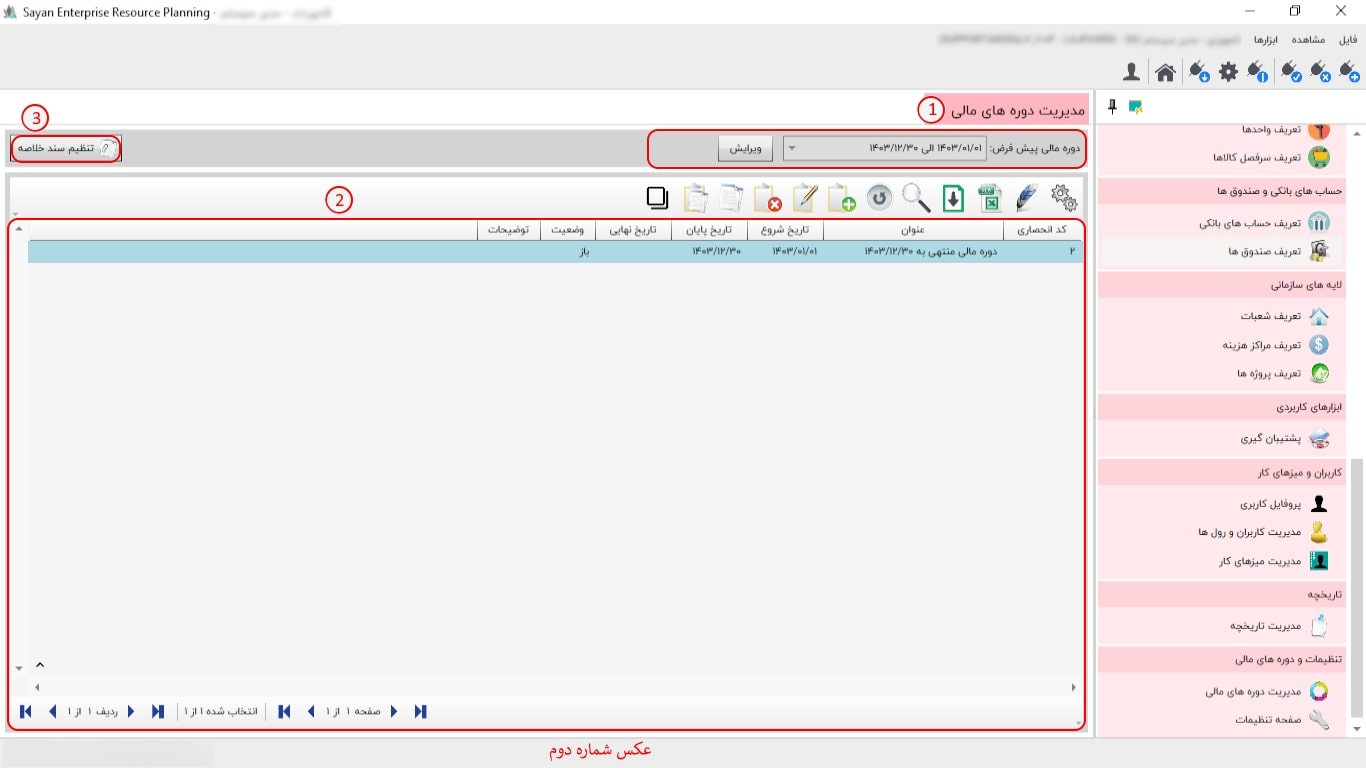
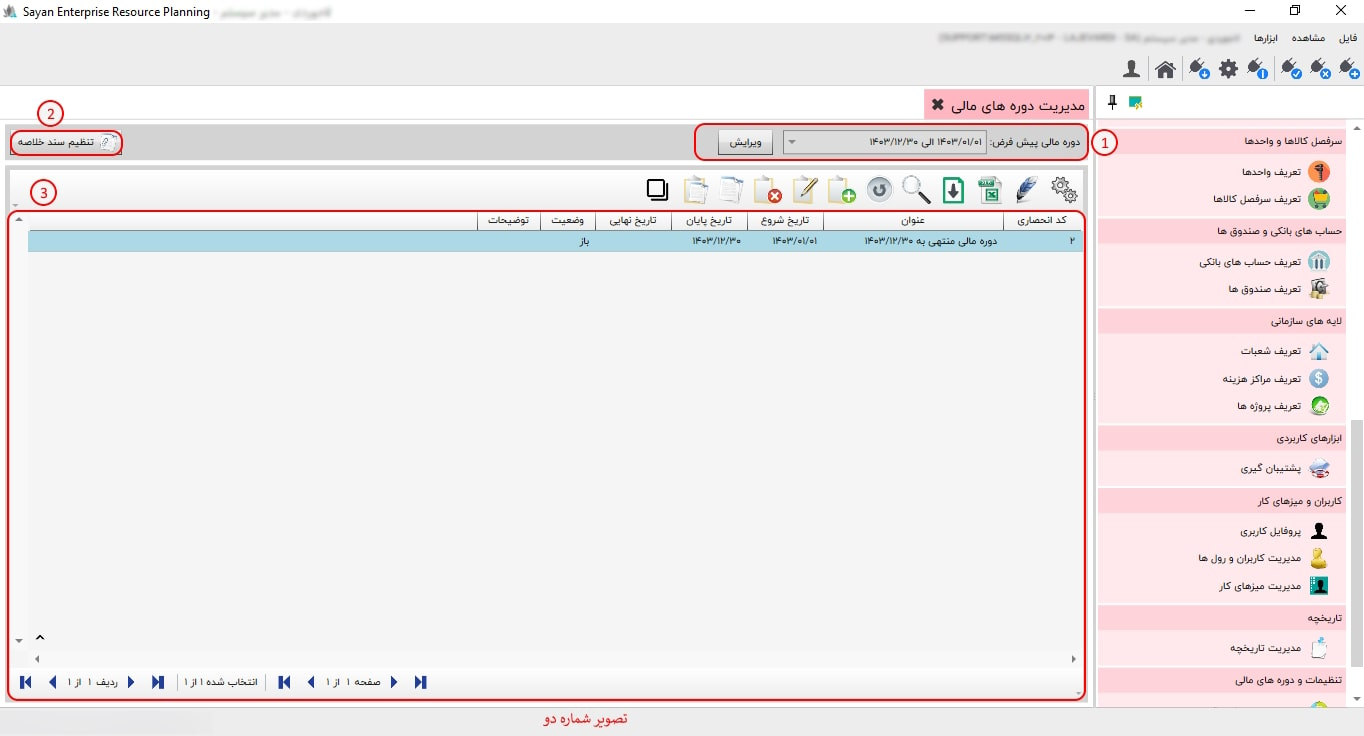
تغییر در عکس

diff --git a/Help/fa-IR/_18_اطلاعات پایه و مشترک/_19_مدیریت دوره های مالی/Index.html b/Help/fa-IR/_18_اطلاعات پایه و مشترک/_19_مدیریت دوره های مالی/Index.html
@@ -18,39 +18,39 @@
 	</p>
 	<img class="FitPic" src="l1.jpg" />
 	<p>
-		برای ادامه مطلب به عکس شماره دوم مراجعه نمایید.
+		برای ادامه مطلب به تصویر شماره دو مراجعه نمایید.
 	</p>
 	<img class="FitPic" src="l2.jpg" />
 	<p>
 		-دوره مالی پیش فرض (کادر شماره یک) :      
 	</p>	 
 	<p>       
-		-کادر شماره دوم:   
+		-کادر شماره دو:   
 	</p>	   
 	<p> 
-		-تنظیم سند خلاصه(کادر شماره سوم):
+		-تنظیم سند خلاصه(کادر شماره سه):
 	</p>
 	<p>    
-		برای ادامه مطلب به عکس شماره سوم مراجعه نمایید.   
+		برای ادامه مطلب به تصویر شماره سه مراجعه نمایید.   
 	</p>
 	<img class="FitPic" src="l3.jpg" />
 	<p>
 	-تنظیم اتوماتیک (کادر شماره یک):
 	</p>
 	<p>
-		-برگشت از تایید(کادر شماره دوم):
+		-برگشت از تایید(کادر شماره دو):
 	</p>
 	<p>
-		-از تاریخ (کادر شماره سوم):
+		-از تاریخ (کادر شماره سه):
 	</p>
 	<p>
-	-  (کادر شماره چهارم)تا تاریخ:
+	-  (کادر شماره چهار)تا تاریخ:
 	</p>
 	<p>
--جمع بندی (کادر شماره پنجم):
+-جمع بندی (کادر شماره پنج):
 	</p>
 	<p>
-		-تعداد روز(کادر شماره ششم) : 
+		-تعداد روز(کادر شماره شش) : 
 	</p>
 </body>
 
